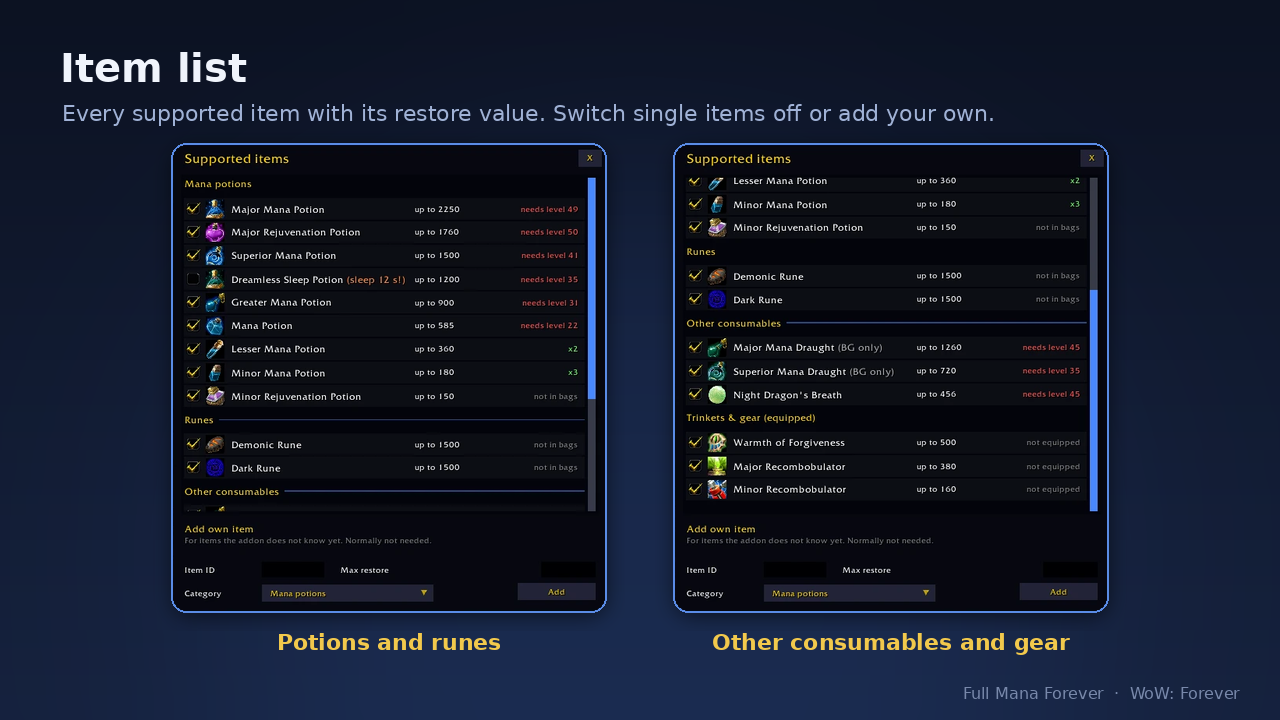
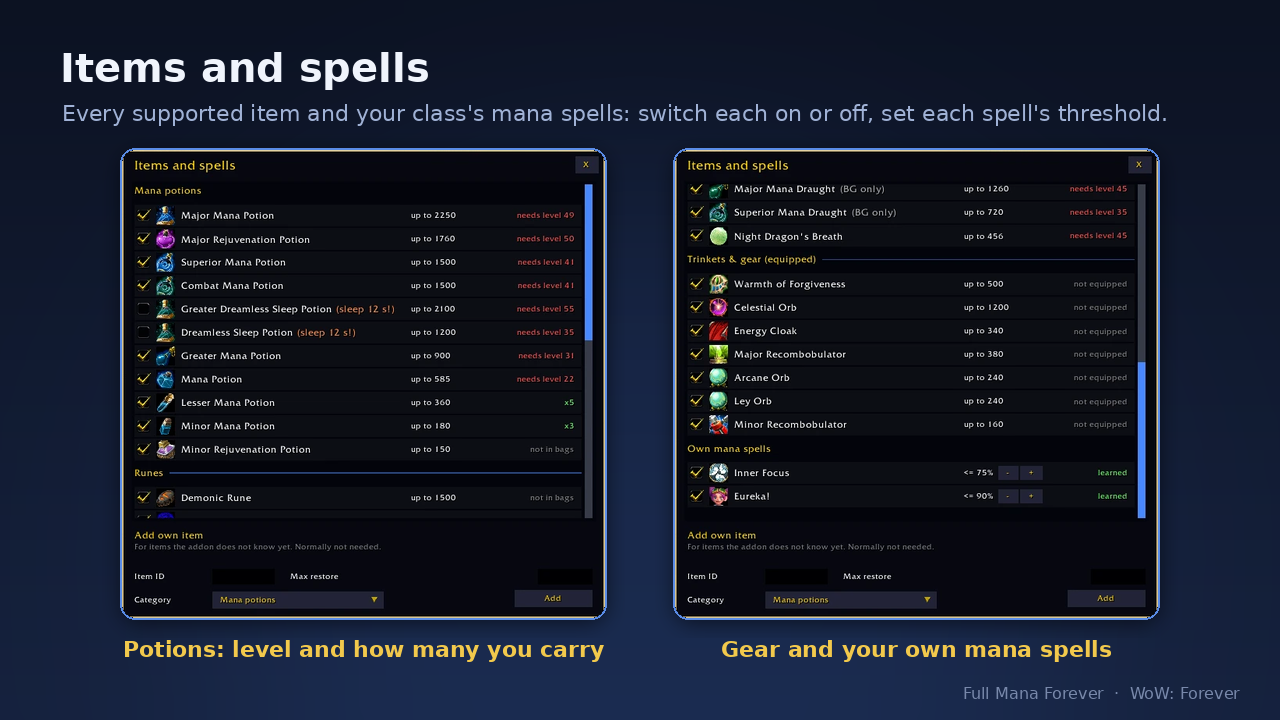
Gallery: settings and Items and spells images for 0.8.7

diff --git a/tools/gallery.py b/tools/gallery.py
@@ -185,6 +185,18 @@ if __name__ == "__main__":
         make("06_settings.png", "Settings that explain themselves",
              "Every part has its own switch and text size. Hover any option for a short explanation.",
              [(crop("images/249.png", (0, 0, 924, 618), 0.86), "")], top=140)
+    if only("06v4"):
+        # 0.8.7 window: "Move texts freely" under unlock, no common spell threshold
+        make("06_settings.png", "Settings that explain themselves",
+             "Every part has its own switch and text size. Hover any option for a short explanation.",
+             [(crop("images/300.webp", (281, 118, 1161, 765), 0.84), "")], top=140)
+    if only("07v2"):
+        # 0.8.7 "Items and spells": level and count per item, own spells with threshold and state
+        LIB2 = (411, 141, 1031, 741)
+        make("07_item_list.png", "Items and spells",
+             "Every supported item and your class's mana spells: switch each on or off, set each spell's threshold.",
+             [(crop("images/301.webp", LIB2, 0.78), "Potions: level and how many you carry"),
+              (crop("images/302.webp", LIB2, 0.78), "Gear and your own mana spells")], top=150)
     if only("13"):
         make("13_profiles_hold.png", "Profiles and potions on hold",
              "Shared settings or your own per character. /fmf hold keeps potions for the next fight.",

diff --git a/docs/notes.md b/docs/notes.md
@@ -97,6 +97,8 @@ decisions. Read the part you need; `CLAUDE.md` holds the short version.
   when the owner asks): 09_own_spells (new), 08_unlocked (5 icons) and 06_settings (two halves)
   replace the 0.7.0 ones on CurseForge. All row images were re-shot with the 0.8.x bar (0.8.1/0.8.2
   uploads); every image on CurseForge is current as of 0.8.2.
+- 0.8.7 (14 Oct): 06_settings (entry 06v4) and 07_item_list (entry 07v2, "Items and spells" with
+  the own spells) re-made from the owner's English screenshots.
 - The finished gallery images (as on CurseForge) are kept in `docs/gallery/`. The in-game source
   screenshots are NOT in the repo (they show character names and chat): the owner keeps them;
   `tools/gallery.py` expects them as `<workdir>/images/<n>.webp`, numbers from the old session.
